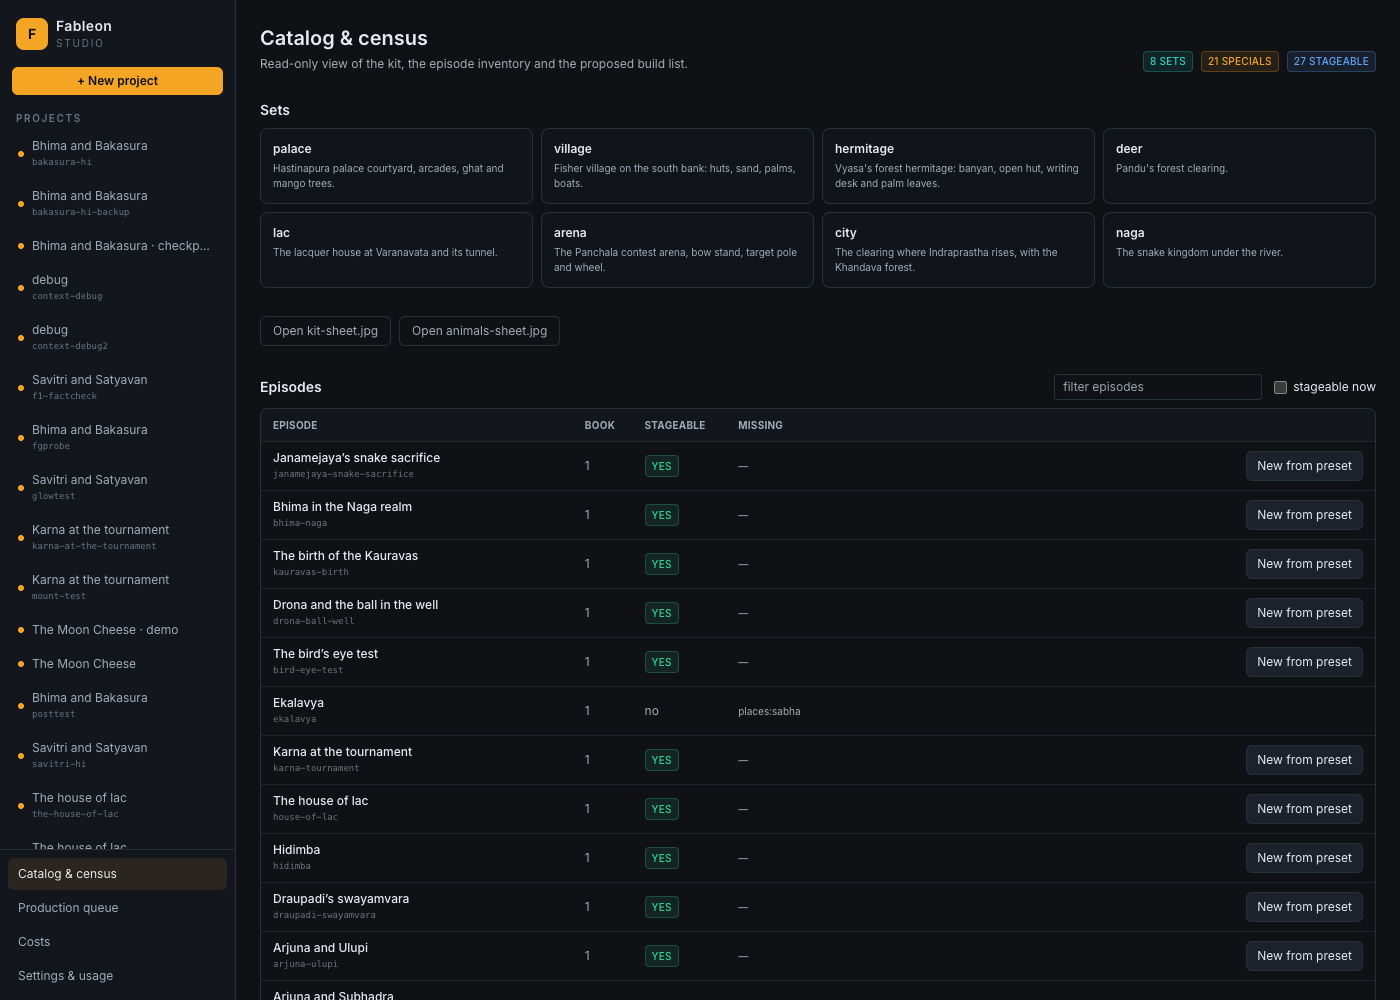
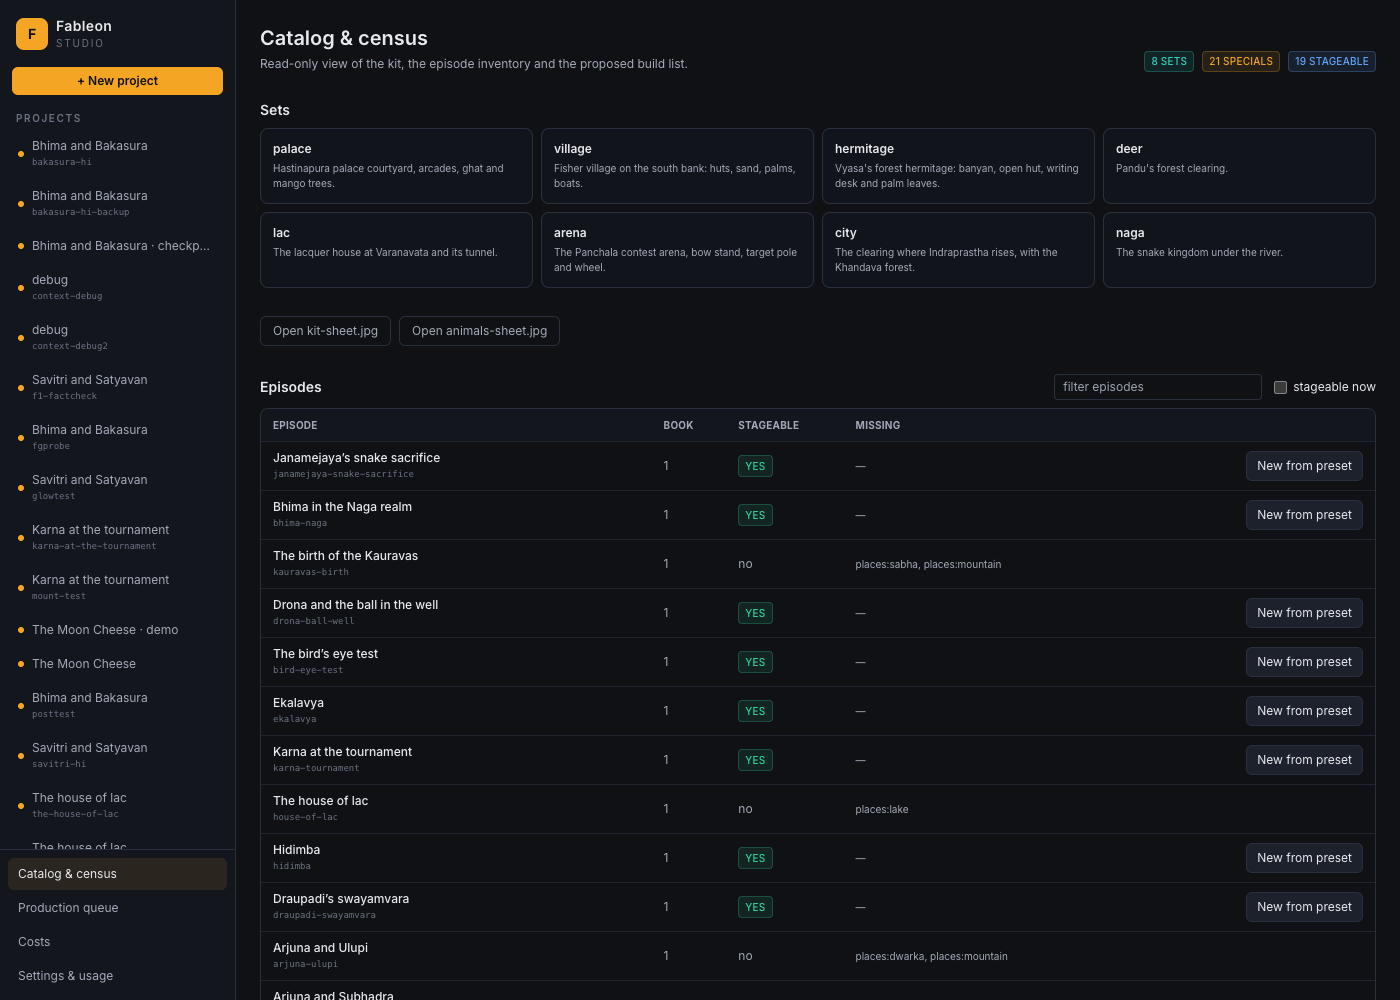
feat(web): gate catalog presets on verified mapping
Disable New from preset for episodes whose section mapping is not verified, and show helps/unlocks counts in the build list. Regenerate the Catalog screenshot from the verified 19-stageable census.

diff --git a/web/src/screens/Catalog.tsx b/web/src/screens/Catalog.tsx
@@ -6,7 +6,7 @@ import { Badge, Button } from '../components/ui';
 type CatalogData = {
   catalog: { sets?: Array<{ name: string; description?: string }>; iconography?: unknown[]; specials?: unknown[]; props?: unknown[]; poses?: unknown[]; effects?: unknown[] };
   episodes: { episodes: Array<{ id: string; title: string; book: number }> };
-  census: { rows: Array<{ id: string; title: string; book: number; stageable: boolean; missing: string[]; sections?: string[] | null; parts?: number }>; build: Array<{ key: string; effort: number; touching?: string[]; unlock?: string[] }>; matrix: Record<string, { have: number; spec: number; missing: number }> };
+  census: { rows: Array<{ id: string; title: string; book: number; stageable: boolean; missing: string[]; sections?: string[] | null; parts?: number; mapping?: { verified?: boolean } }>; build: Array<{ key: string; effort: number; help?: number; episodes?: string[]; unlocks?: string[]; touching?: string[]; unlock?: string[] }>; matrix: Record<string, { have: number; spec: number; missing: number }> };
   sheets: string[];
 };
 
@@ -49,13 +49,13 @@ export default function Catalog() {
     <section>
       <div className="mb-2 flex flex-wrap items-center justify-between gap-2"><h2 className="text-sm font-semibold">Episodes</h2><div className="flex items-center gap-3 text-xs"><input value={qtext} onChange={(e) => setQtext(e.target.value)} placeholder="filter episodes" className="w-52 rounded border border-studio-line bg-studio-bg px-2 py-1 text-xs" /><label className="flex items-center gap-1.5"><input type="checkbox" checked={only} onChange={(e) => setOnly(e.target.checked)} /> stageable now</label></div></div>
       <div className="overflow-auto rounded-lg border border-studio-line"><table className="w-full text-left text-xs"><thead className="bg-studio-panel/60 text-[10px] uppercase tracking-wide text-studio-muted"><tr><th className="px-3 py-2">episode</th><th className="px-3 py-2">book</th><th className="px-3 py-2">stageable</th><th className="px-3 py-2">missing</th><th className="px-3 py-2"></th></tr></thead><tbody>
-        {rows.map((r) => <tr key={r.id} className="border-t border-studio-line/60"><td className="px-3 py-2"><div className="font-medium text-studio-text">{r.title}</div><div className="font-mono text-[9px] text-studio-faint">{r.id}</div></td><td className="px-3 py-2 text-studio-muted">{r.book}</td><td className="px-3 py-2">{r.stageable ? <Badge tone="green">yes</Badge> : <span className="text-studio-muted">no</span>}</td><td className="max-w-md px-3 py-2 text-[10px] text-studio-muted">{r.missing.length ? r.missing.slice(0, 8).join(', ') + (r.missing.length > 8 ? ` +${r.missing.length - 8}` : '') : '—'}</td><td className="px-3 py-2 text-right">{r.stageable ? <Button size="sm" variant="secondary" disabled={creating === r.id} onClick={() => newFrom(r)}>{creating === r.id ? 'Creating…' : 'New from preset'}</Button> : null}</td></tr>)}
+        {rows.map((r) => { const verified = r.mapping?.verified !== false; return <tr key={r.id} className="border-t border-studio-line/60"><td className="px-3 py-2"><div className="font-medium text-studio-text">{r.title}</div><div className="font-mono text-[9px] text-studio-faint">{r.id}</div></td><td className="px-3 py-2 text-studio-muted">{r.book}</td><td className="px-3 py-2">{r.stageable ? <Badge tone="green">yes</Badge> : <span className="text-studio-muted">no</span>}</td><td className="max-w-md px-3 py-2 text-[10px] text-studio-muted">{r.missing.length ? r.missing.slice(0, 8).join(', ') + (r.missing.length > 8 ? ` +${r.missing.length - 8}` : '') : '—'}</td><td className="px-3 py-2 text-right">{r.stageable ? <Button size="sm" variant="secondary" disabled={!verified || creating === r.id} title={verified ? undefined : 'Mapping not verified'} onClick={() => newFrom(r)}>{creating === r.id ? 'Creating…' : 'New from preset'}</Button> : null}</td></tr>; })}
       </tbody></table></div>
     </section>
     <section>
       <h2 className="mb-2 text-sm font-semibold">Proposed build list</h2>
-      <div className="overflow-auto rounded-lg border border-studio-line"><table className="w-full text-left text-xs"><thead className="bg-studio-panel/60 text-[10px] uppercase tracking-wide text-studio-muted"><tr><th className="px-3 py-2">item</th><th className="px-3 py-2">effort</th><th className="px-3 py-2">episodes</th></tr></thead><tbody>
-        {(data!.census.build ?? []).slice(0, 16).map((b) => <tr key={b.key} className="border-t border-studio-line/60"><td className="px-3 py-2 font-mono text-[10px]">{b.key}</td><td className="px-3 py-2">{b.effort}</td><td className="px-3 py-2 text-[10px] text-studio-muted">{(b.unlock?.length ? b.unlock : b.touching ?? []).slice(0, 10).join(', ') || '—'}</td></tr>)}
+      <div className="overflow-auto rounded-lg border border-studio-line"><table className="w-full text-left text-xs"><thead className="bg-studio-panel/60 text-[10px] uppercase tracking-wide text-studio-muted"><tr><th className="px-3 py-2">item</th><th className="px-3 py-2">effort</th><th className="px-3 py-2">helps</th><th className="px-3 py-2">unlocks</th><th className="px-3 py-2">episodes</th></tr></thead><tbody>
+        {(data!.census.build ?? []).slice(0, 16).map((b) => <tr key={b.key} className="border-t border-studio-line/60"><td className="px-3 py-2 font-mono text-[10px]">{b.key}</td><td className="px-3 py-2">{b.effort}</td><td className="px-3 py-2">{b.help ?? b.touching?.length ?? 0}</td><td className="px-3 py-2">{b.unlocks?.length ?? b.unlock?.length ?? 0}</td><td className="px-3 py-2 text-[10px] text-studio-muted">{(b.episodes ?? b.touching ?? []).slice(0, 10).join(', ') || '—'}</td></tr>)}
       </tbody></table></div>
     </section>
   </div>;
